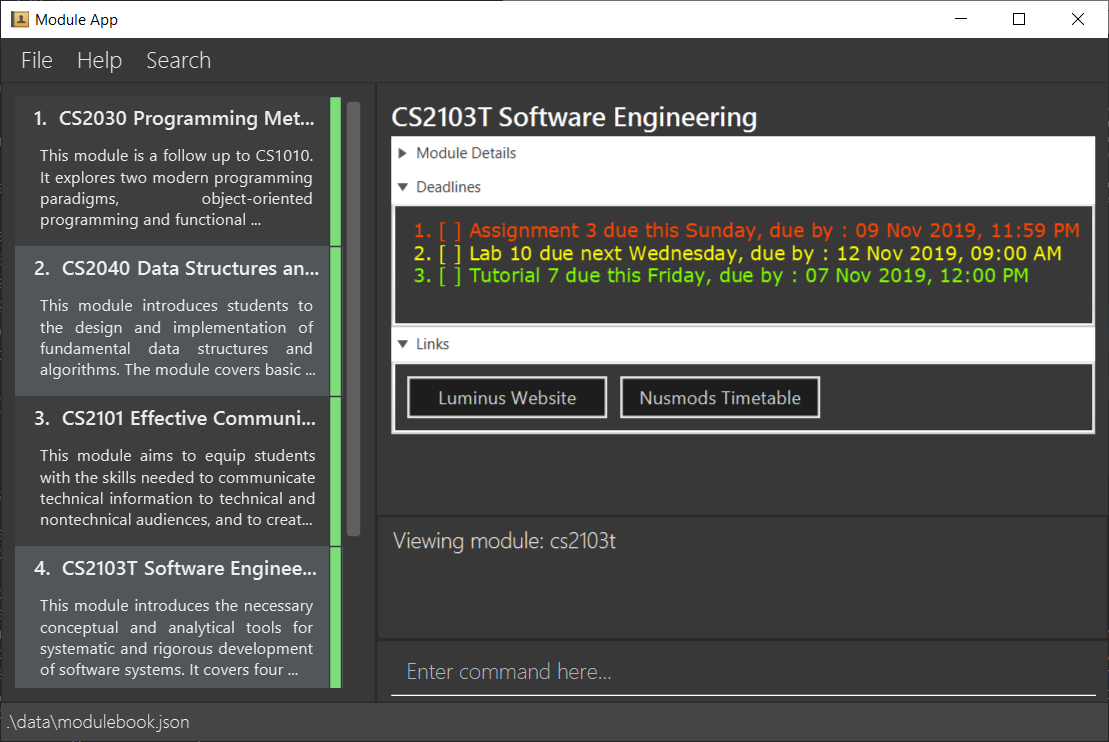
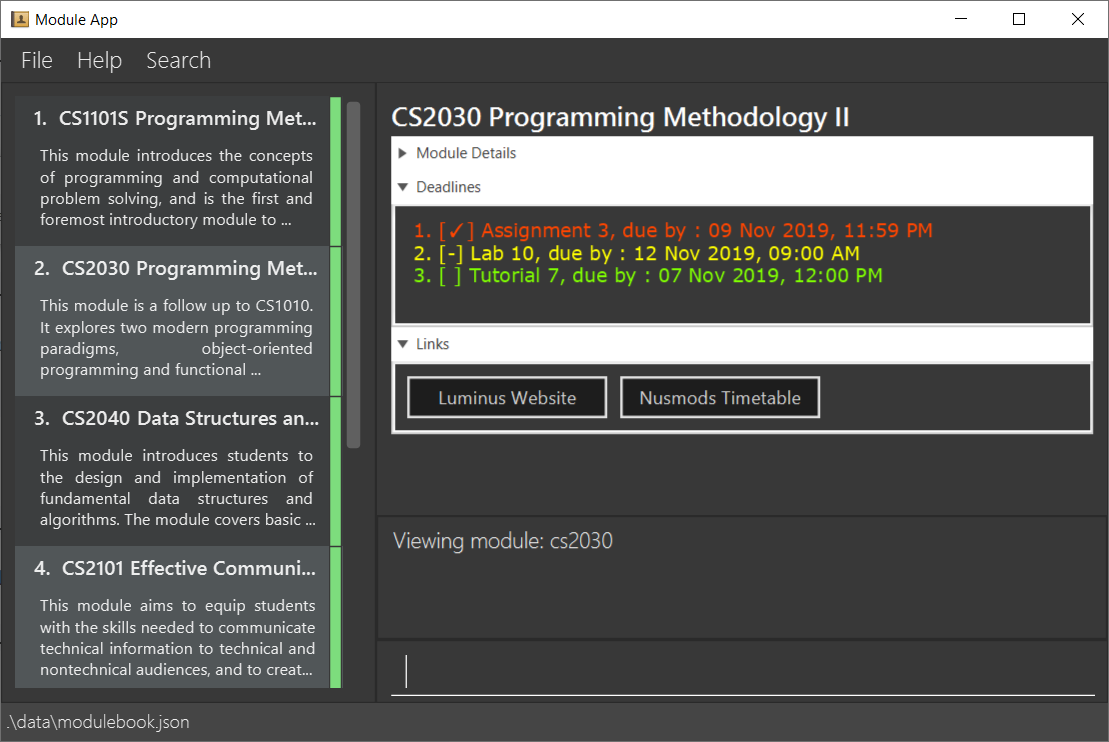
Update sample data (#168)
* Update sample data

* Update Ui.png

diff --git a/src/main/java/seedu/module/model/util/SampleDataUtil.java b/src/main/java/seedu/module/model/util/SampleDataUtil.java
@@ -25,9 +25,9 @@ public class SampleDataUtil {
     );
 
     private static final List<Deadline> deadlines = List.of(
-        new Deadline("Assignment 3 due this Sunday", "9/11/2019 2359", "HIGH"),
-        new Deadline("Lab 10 due next Wednesday", "12/11/2019 0900", "MEDIUM"),
-        new Deadline("Tutorial 7 due this Friday", "7/11/2019 1200", "LOW")
+        new Deadline("Assignment 3", "9/11/2019 2359", "HIGH"),
+        new Deadline("Lab 10", "12/11/2019 0900", "MEDIUM"),
+        new Deadline("Tutorial 7", "7/11/2019 1200", "LOW")
     );
 
     private static final List<Link> links = List.of(
